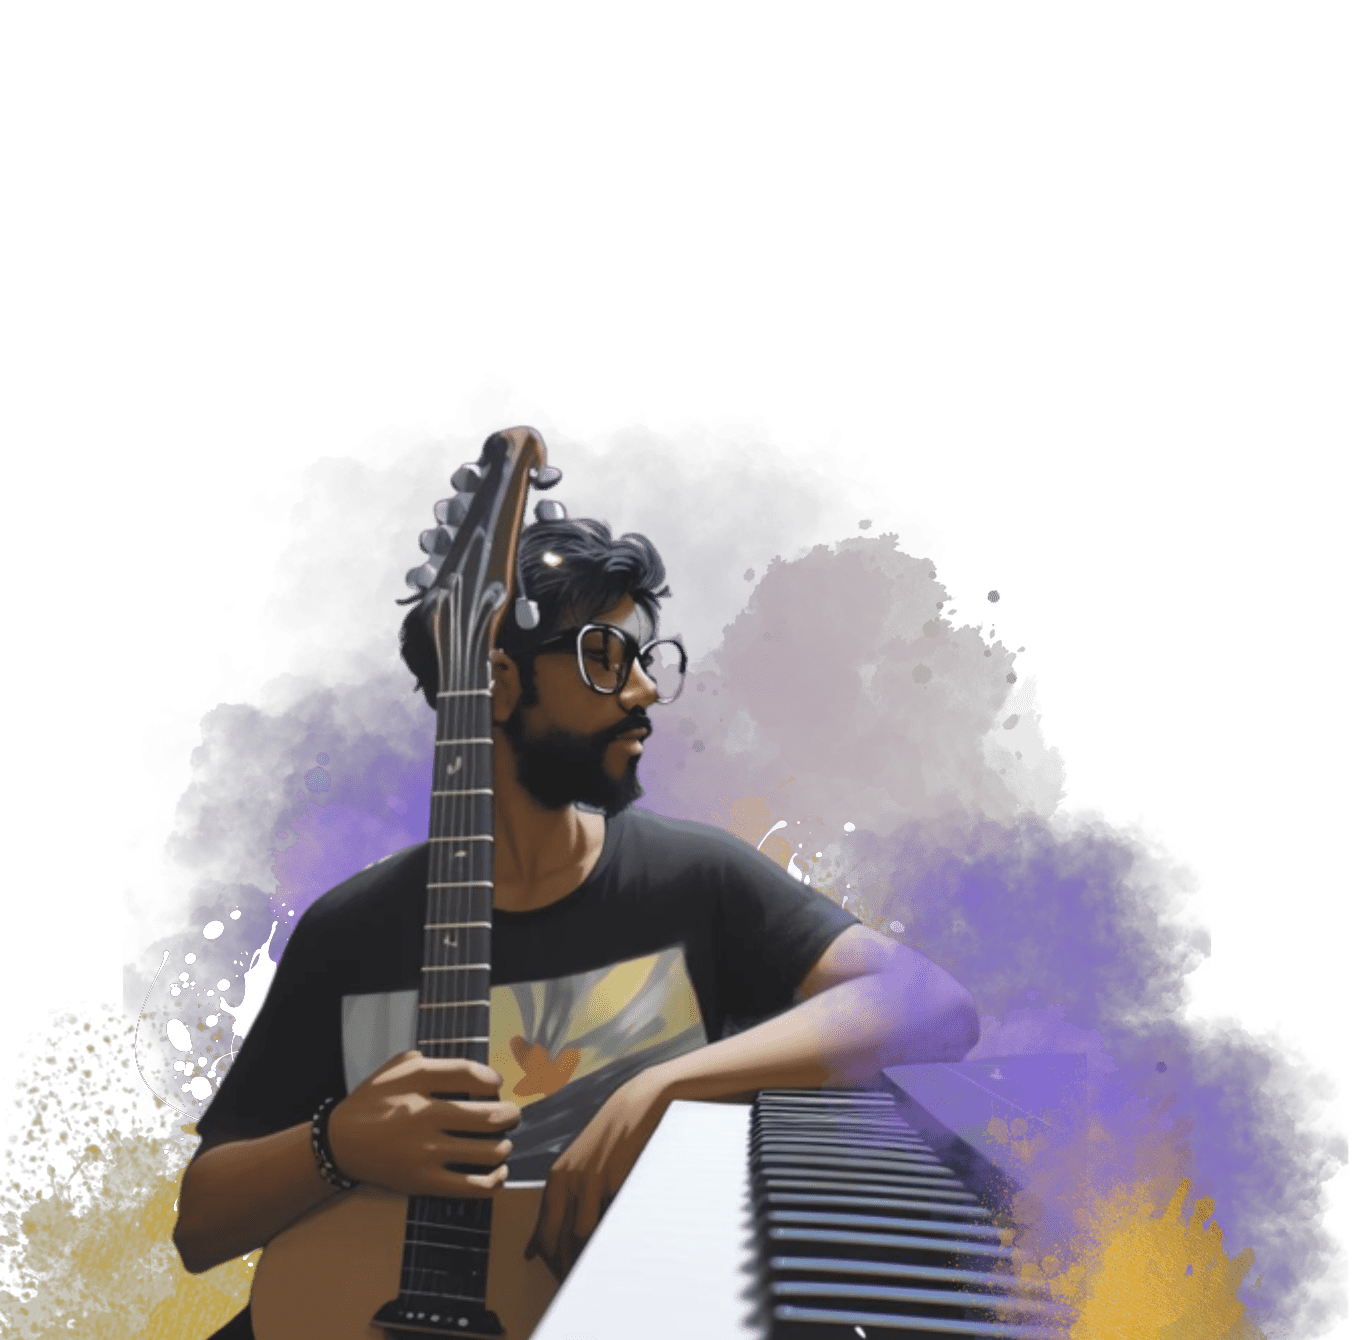
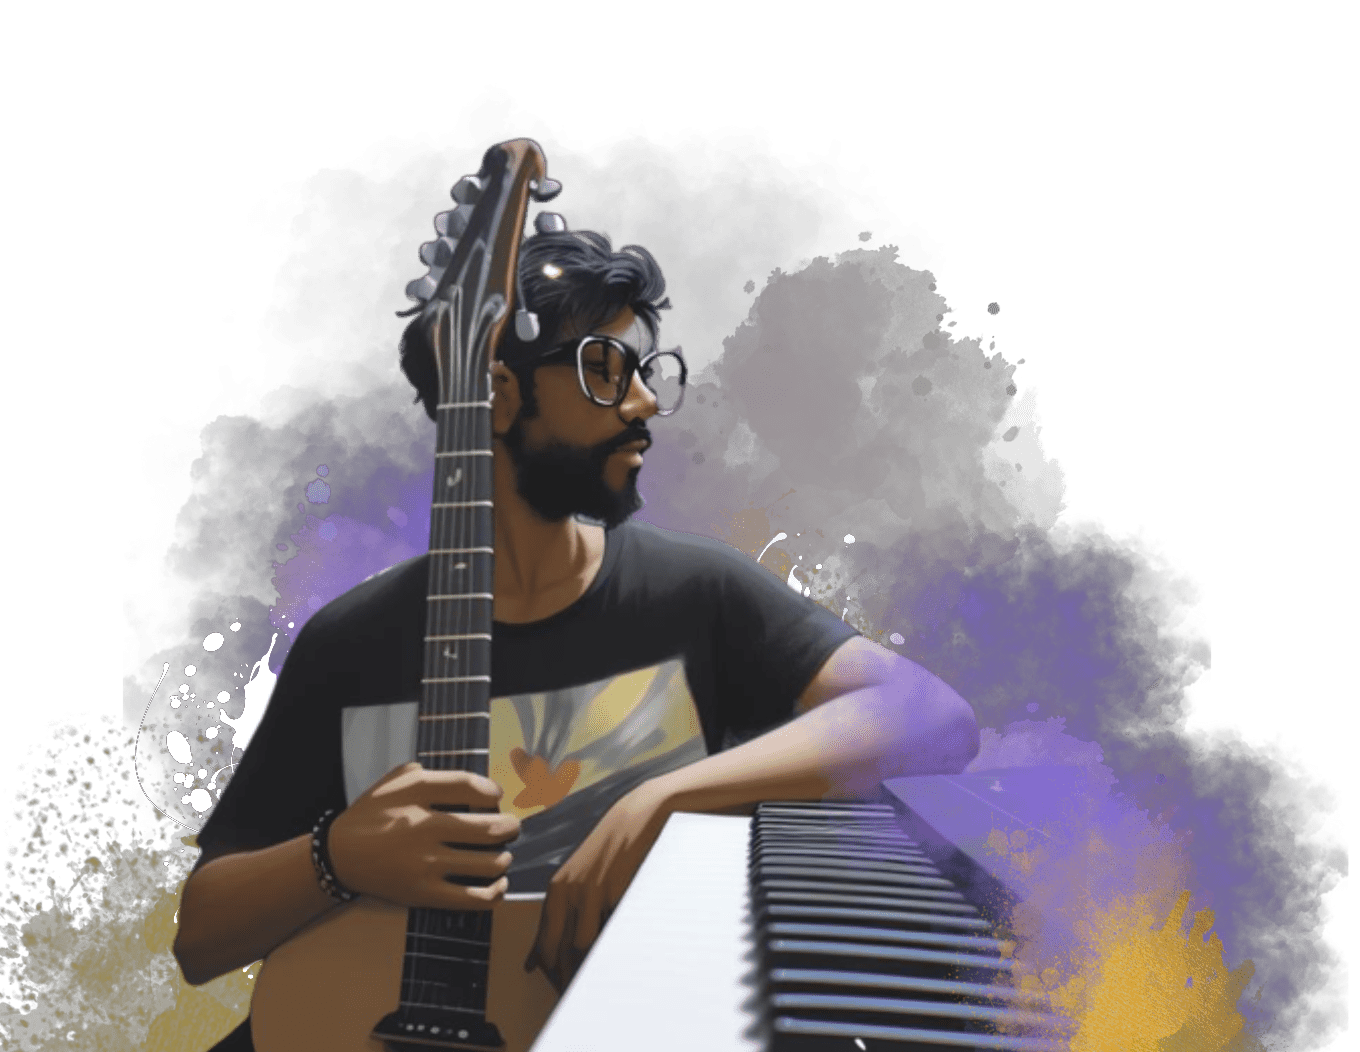
UPDATING WORDCRAFT

diff --git a/src/pages/musicroom.js b/src/pages/musicroom.js
@@ -1,12 +1,10 @@
 
-
-
 import musicprofile from "../../public/images/talentpages/musicbg (1).webp"
 import musicprofile2 from "../../public/images/talentpages/musicbg (2).webp"
 import Layout from '@/components/Layout'
 import Head from 'next/head'
 import Image from 'next/image'
-import profilePic from "../../public/images/profile/developer-pic-1.webp"
+import profilePic from "../../public/images/profile/musicroom.webp"
 import Signature from "../../public/images/profile/signature.webp"
 import AnimatedText from '@/components/AnimatedText'
 import TransitionEffect from '@/components/TransitionEffect'
@@ -72,7 +70,7 @@ const MusicRoom = () => {
             <motion.div initial={{ opacity: 0 }} whileInView={{ opacity: 1 }} transition={{ duration: 2 }} >
 
 
-                <Image src={musicprofile2} alt="Music Profile" className="opacity-50 absolute -mt-20 lg:opacity-0 md:opacity-0 sm:opacity-0">
+                <Image src={musicprofile2} quality={50} alt="Music Profile" className="h-full opacity-30 absolute -mt-20 lg:opacity-0 md:opacity-0 sm:opacity-0">
 
                 </Image>
                 <main className='flex w-full flex-col items-center justify-center '>
@@ -123,7 +121,7 @@ const MusicRoom = () => {
 
 
 
-                                <div className='col-span-4 w-full relative mb-2 p-4 ml-4  justify-end  md:p-0.5 sm:p-0 '>
+                                <div className='col-span-4 w-full relative mb-2 p-4 ml-4  justify-end  md:p-0.5 sm:p-0 md:-mt-8'>
                                     <Image src={profilePic} sizes="(max-width: 768px) 100vw, (max-width: 1200px) 50vw, 33vw" priority={false} alt="Aryadeep Gogoi" className="w-full h-full rounded-2xl " />
                                 </div>
 
@@ -132,9 +130,9 @@ const MusicRoom = () => {
 
 
 
-                                    <span className='  text-dark/90 text-lg dark:text-light  lg:text-xl md:text-xl sm:text-lg xs:text-base'>passionate  passionate about passionat passionate about passionate about passionate about passionate aboutabout</span>
-                                    <span className=' mt-4 text-dark/90 text-lg dark:text-light  lg:text-xl md:text-xl sm:text-lg xs:text-base'>passionate  passionate about passnate about passionate about passionate about passionate about passionate aboutabout</span>
-                                    <span className=' mt-4 mb-8 text-dark/90 text-lg dark:text-light lg:text-xl  md:text-xl sm:text-lg xs:text-base'>passionate  passionate about passionate assionate about passionate about passionate aboutabout</span>
+                                    <span className='  text-dark/90 text-lg dark:text-light  lg:text-xl md:text-xl sm:text-lg xs:text-base'>From an early age, I discovered my innate connection with music and the joy it brings to my life. As I began my musical journey, I quickly gravitated towards the piano, captivated by its versatility.</span>
+                                    <span className=' mt-4 text-dark/90 text-lg dark:text-light  lg:text-xl md:text-xl sm:text-lg xs:text-base'>As an avid learner, I have delved into various genres, including classical, contemporary, and pop, always seeking to broaden my musical horizons</span>
+                                    <span className=' mt-4 mb-8 text-dark/90 text-lg dark:text-light lg:text-xl  md:text-xl sm:text-lg xs:text-base'>In addition to the piano, I am passionate playing the guitar .My musical Journey is under construction and shall be here soon</span>
 
 
 

diff --git a/src/pages/wordcraft.js b/src/pages/wordcraft.js
@@ -2,7 +2,7 @@
 
 
 import musicprofile from "../../public/images/talentpages/musicbg (1).webp"
-import musicprofile2 from "../../public/images/talentpages/musicbg (2).webp"
+import musicprofile2 from "../../public/images/talentpages/wordcraftbg.webp"
 import Layout from '@/components/Layout'
 import Head from 'next/head'
 import Image from 'next/image'
@@ -83,7 +83,7 @@ const WordRoom = () => {
             <motion.div initial={{ opacity: 0 }} whileInView={{ opacity: 1 }} transition={{ duration: 2 }} >
 
 
-                <Image src={musicprofile2} alt="Music Profile" className="opacity-25 absolute -mt-20 xl:opacity-0 md:opacity-0 sm:opacity-0">
+                <Image src={musicprofile2} quality={60} alt="Music Profile" className="h-full w-full opacity-30 absolute -mt-20 lg:opacity-0 md:opacity-0 sm:opacity-0">
 
                 </Image>
                 <main className='flex w-full flex-col items-center justify-center '>
@@ -159,7 +159,7 @@ const WordRoom = () => {
 
 
 
-                          
+
 
 
 
